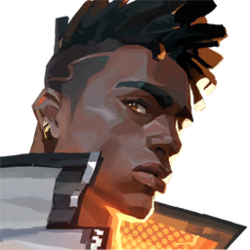
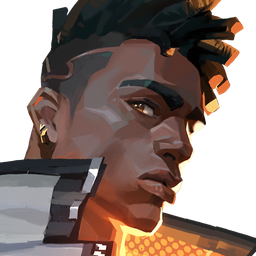
Agent portraits from the VALORANT wiki; Miks added; build check without the scoreboard
- Every agent's portrait replaced with the wiki's agent icon (the same art,
  from 1024px originals), and Miks added: portrait, M-pulse (C), Harmonize
  (Q), Waveform (E), Bassquake (X, 8 points). Recognition re-checked on a
  real frame: all ten agents still found.
- The build's HUD-window check loads the HUD without the scoreboard: the
  demo's buy phase put it over the points that must be see-through
  (failed the v1.0.12 build).

Claude-Session: https://claude.ai/code/session_01GgLJMj8WDD3tF4rcFwg75z

diff --git a/valhud/game.py b/valhud/game.py
@@ -26,12 +26,12 @@ SIDES = ("left", "right")
 
 # Agent folder names in web/hud/Resources/Agentes (KAY/O is "Kayo").
 AGENTS = ["Astra", "Breach", "Brimstone", "Chamber", "Clove", "Cypher", "Deadlock", "Fade", "Gekko", "Harbor",
-          "Iso", "Jett", "Kayo", "Killjoy", "Neon", "Omen", "Phoenix", "Raze", "Reyna", "Sage", "Skye", "Sova",
+          "Iso", "Jett", "Kayo", "Killjoy", "Miks", "Neon", "Omen", "Phoenix", "Raze", "Reyna", "Sage", "Skye", "Sova",
           "Tejo", "Viper", "Vyse", "Waylay", "Yoru"]
 
 # Ultimate points needed (only a fallback: live data gives the real value).
 ULT_MAX = {"Astra": 7, "Breach": 8, "Brimstone": 8, "Chamber": 8, "Clove": 8, "Cypher": 6, "Deadlock": 7,
-           "Fade": 8, "Gekko": 8, "Harbor": 7, "Iso": 7, "Jett": 8, "Kayo": 8, "Killjoy": 9, "Neon": 8,
+           "Fade": 8, "Gekko": 8, "Harbor": 7, "Iso": 7, "Jett": 8, "Kayo": 8, "Killjoy": 9, "Miks": 8, "Neon": 8,
            "Omen": 7, "Phoenix": 6, "Raze": 8, "Reyna": 7, "Sage": 8, "Skye": 8, "Sova": 8, "Tejo": 8,
            "Viper": 9, "Vyse": 8, "Waylay": 8, "Yoru": 8}
 

diff --git a/valhud/overlay_window.py b/valhud/overlay_window.py
@@ -170,8 +170,10 @@ class OverlayWindow:
         elif not open_it and self.window:
             self.close()
 
+    extra = ""  # more URL options (the self-test leaves the scoreboard out)
+
     def _target(self):
-        return f"{self.url or f'http://127.0.0.1:{self.port}'}/overlay?fit=1"
+        return f"{self.url or f'http://127.0.0.1:{self.port}'}/overlay?fit=1{self.extra}"
 
     def _screen_rect(self):
         screens = monitors() or [(0, 0, 1920, 1080)]
@@ -281,6 +283,9 @@ def self_test(port, out_dir):
     for name in ("without-fix", "transparent"):
         ov = OverlayWindow(Config(), port, title=f"overlay-test-{name}")
         ov.fix_backdrop = name != "without-fix"
+        # The demo's buy phase would put the scoreboard over the points that
+        # must be see-through.
+        ov.extra = "&scoreboard=0"
         ov.open()
         time.sleep(8)
         shot = ImageGrab.grab(all_screens=False)
